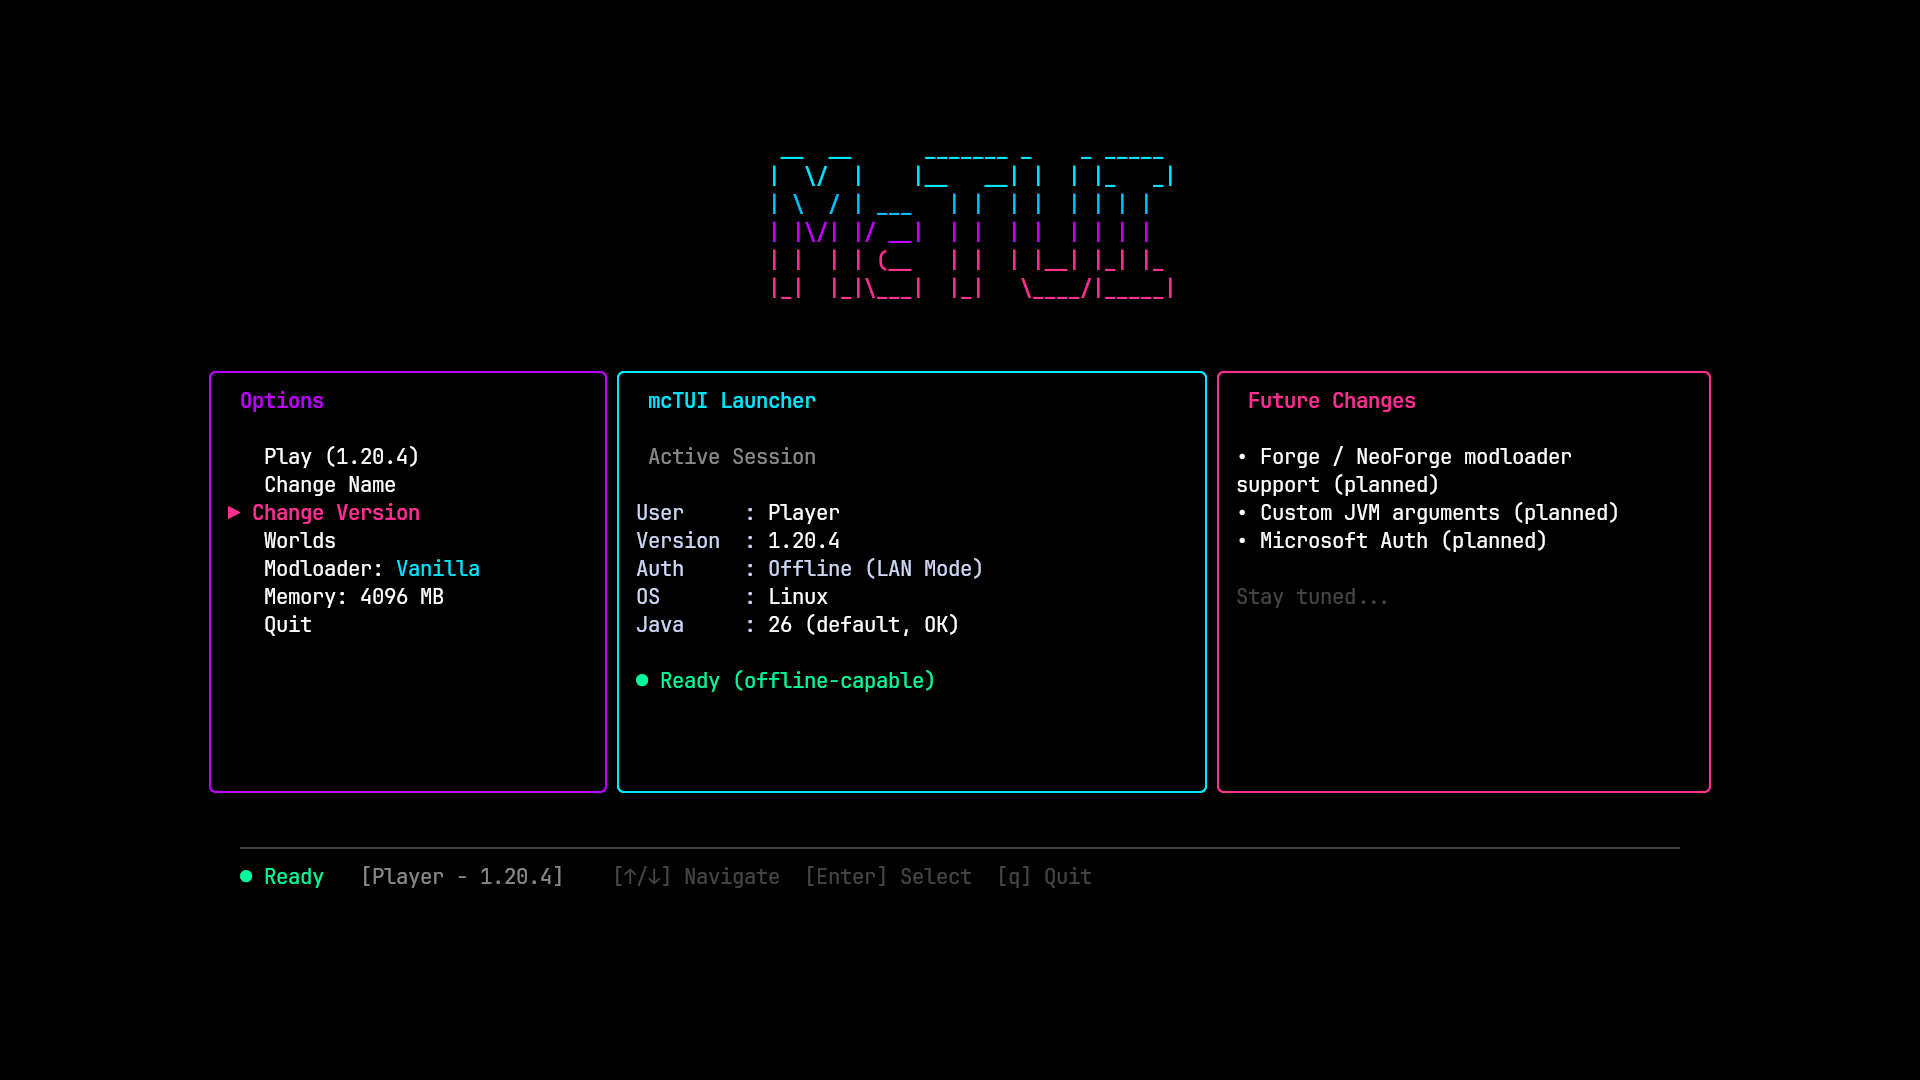
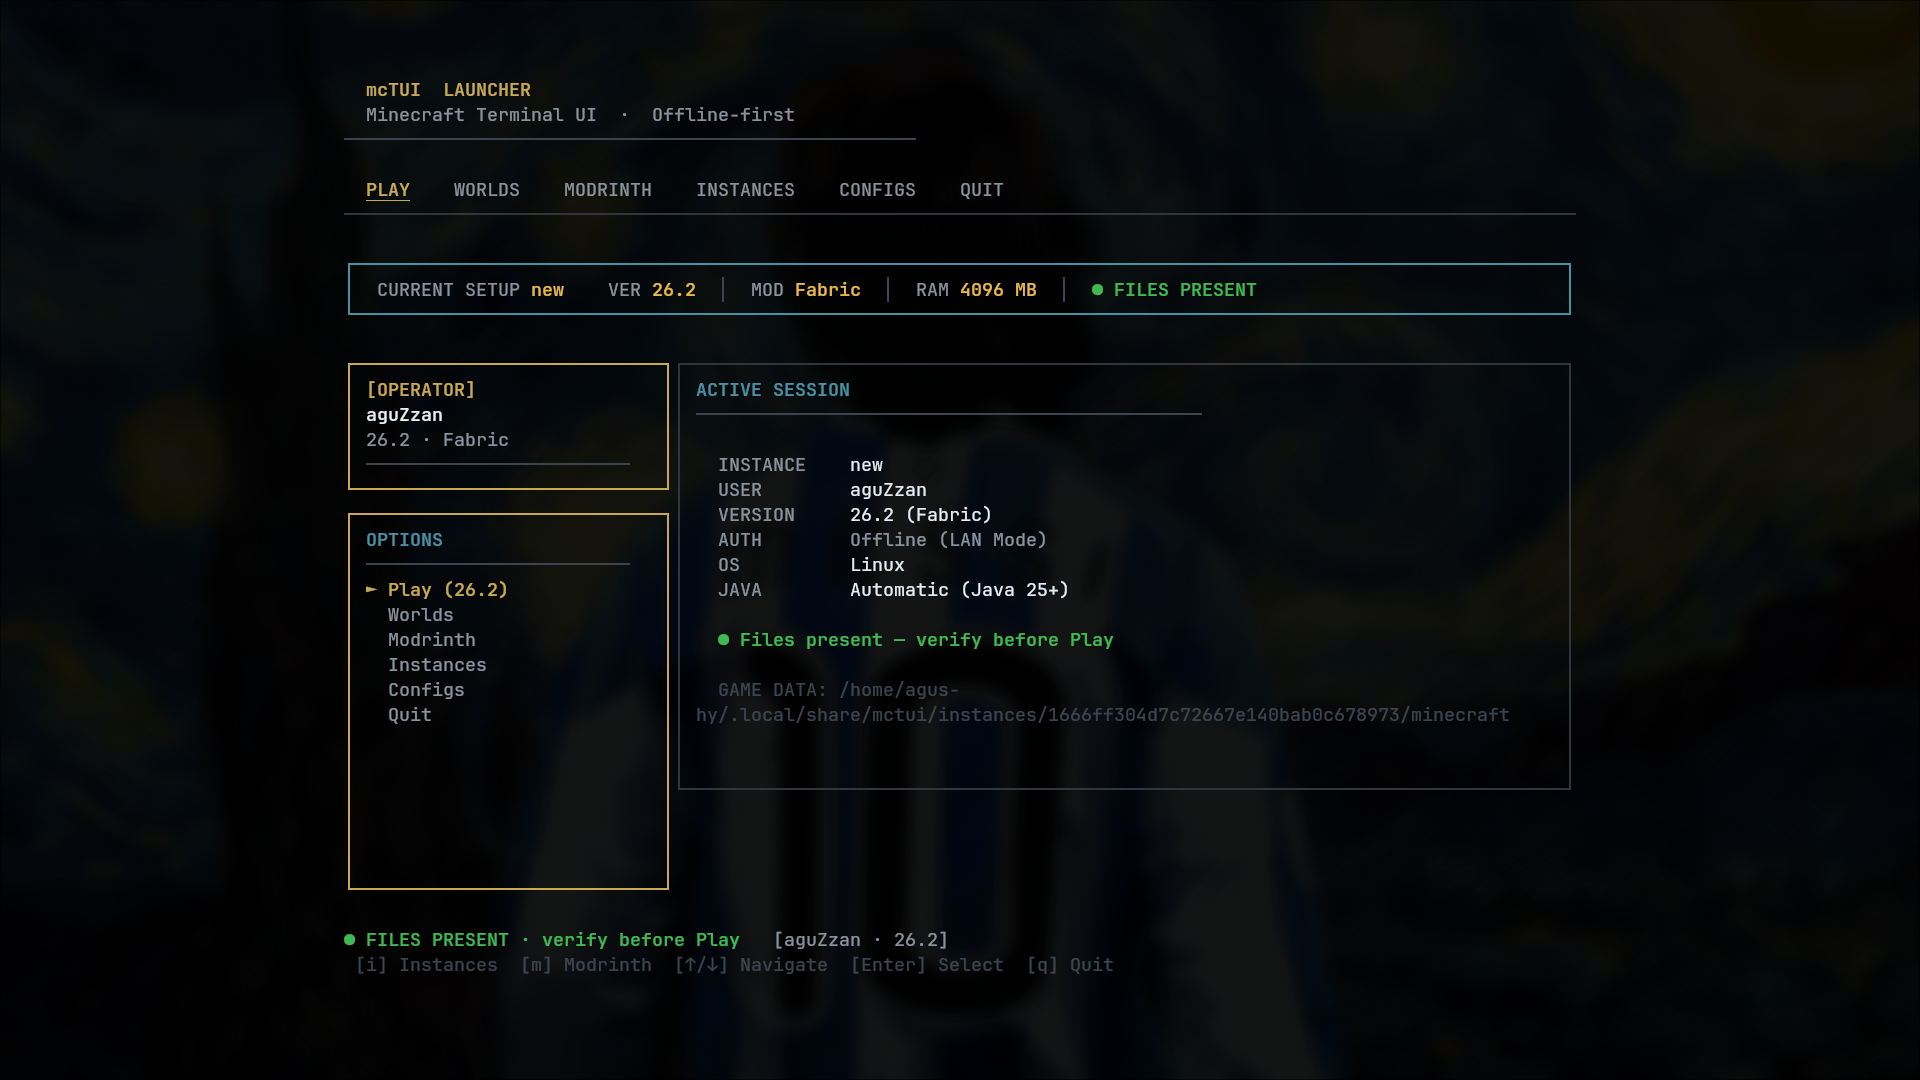
docs: clarify mandatory official Minecraft requirement and update TUI screenshot

diff --git a/README.md b/README.md
@@ -4,6 +4,10 @@
 
 An extremely lightweight, fast, and pure terminal (TUI) Minecraft (Java Edition) launcher. Written in Go, designed for minimalist environments and users who prefer the console.
 
+> ⚠ **MANDATORY PREREQUISITE / REQUISITO OBLIGATORIO:**  
+> **mcTUI ONLY works if you have purchased and downloaded Minecraft: Java Edition on your system.**  
+> mcTUI is strictly a terminal frontend and local management utility that operates on top of an existing, official `.minecraft` installation. It **does not** provide, distribute, or pirate the game, nor does it bypass Mojang or Microsoft DRM/authentication. **Without an official, legitimately purchased copy of Minecraft already downloaded and installed on your computer, mcTUI will NOT function.**
+
 ---
 
 ## Quick Install (Linux/macOS)
@@ -116,7 +120,7 @@ an indeterminate bar. Press `Esc` to cancel preparation.
 * **Cross-Platform:** Native path resolution and execution for Linux, macOS, and Windows.
 * **Secure LAN Multiplayer:** Generates dynamic v4 UUIDs in each session to avoid "duplicate name" conflicts on local servers.
 * **XDG Persistence:** Saves your configuration (username, modloader state, and last played version) following Linux and Windows OS standards.
-* **Legitimacy First:** Verifies existing official Minecraft installations for proprietary binaries (`client.jar`) before taking action, acting as a local utility rather than a direct distributor.
+* **Legitimacy First:** Operates exclusively on officially purchased and downloaded Minecraft installations. Verifies existing official installations for proprietary binaries (`client.jar`) and assets before taking action, acting strictly as a local utility rather than a direct distributor.
 * **Smart Java Detection:** Automatically detects the Java version required
   by each Minecraft version and locates a compatible JRE on your system
   (PATH, common install directories, or IDE-managed JDKs), even if it's not
@@ -126,11 +130,11 @@ an indeterminate bar. Press `Esc` to cancel preparation.
 
 ## Requirements
 
+* **Official Minecraft Installation (Mandatory):** An official, legitimately purchased copy of Minecraft: Java Edition downloaded on your system (`~/.minecraft` on Linux/macOS, `%APPDATA%\.minecraft` on Windows) via the official Mojang launcher. mcTUI relies on pre-existing game assets, libraries, and binaries from your official installation and **does not function without a valid, purchased, and downloaded Minecraft installation**.
 * **Operating System:** Linux (Tested on Arch Linux), macOS, or Windows.
 * **Java Runtime Environment:**
-* `jre17-openjdk` (For Minecraft 1.17 to 1.20.4)
-* `jre21-openjdk` (For Minecraft 1.20.5+)
-
+  * `jre17-openjdk` (For Minecraft 1.17 to 1.20.4)
+  * `jre21-openjdk` (For Minecraft 1.20.5+)
 
 
 ---
@@ -139,7 +143,7 @@ an indeterminate bar. Press `Esc` to cancel preparation.
 
 For Windows users who do not wish to compile from source, pre-built binaries are provided.
 
-1. Download the latest `mctui-windows-amd64.exe` from the [Releases](https://www.google.com/search?q=https://github.com/agmonetti/mcTUI/releases) page.
+1. Download the latest `mctui-windows-amd64.exe` from the [Releases](https://github.com/agmonetti/mcTUI/releases) page.
 2. Ensure you have the correct Java version installed (e.g., Eclipse Temurin). **Crucial:** You must check the option to add Java to your system's `PATH` variable during installation.
 3. Open a **PowerShell** window in the directory where you downloaded the executable.
 4. Run the launcher using the following command:
@@ -211,12 +215,14 @@ mctui
 > **Note:** Use `↑/↓` arrows to navigate, `Enter` to select/toggle, and `Esc/q` to quit or go back.
 > **Note:** Usernames must be 1-16 characters, using only letters, numbers, and underscores — this matches Minecraft's own requirements.
 
-## Disclaimer
+## Disclaimer & Legitimacy Policy
+
+**Strict Requirement:** mcTUI **ONLY** works if you have purchased and downloaded an official copy of Minecraft: Java Edition on your machine.
 
 This project is strictly an educational tool demonstrating concurrency in Go, REST API consumption, TUI design, and OS subprocess management.
 
-**mcTUI is designed to operate as a local utility over existing, officially acquired Minecraft installations.** It does not act as a primary distributor for proprietary Mojang binaries (such as `client.jar`).
+**mcTUI is designed to operate solely as a local utility over existing, officially acquired, and downloaded Minecraft installations.** It does not act as a distributor for proprietary Mojang binaries (such as `client.jar`) and does not facilitate any unauthorized access.
 
-The networking capabilities implemented rely entirely on the official, documented Minecraft protocol for Local Area Networks (LAN) and development environments. It connects exclusively to local servers explicitly configured with `online-mode=false`. **This project does not circumvent DRM, nor does it encourage or facilitate software piracy.** To play on standard, authenticated public servers, you must own a legitimate copy of the game via [minecraft.net](https://www.minecraft.net/).
+The networking capabilities implemented rely entirely on the official, documented Minecraft protocol for Local Area Networks (LAN) and development environments. It connects exclusively to local servers explicitly configured with `online-mode=false`. **This project does not circumvent DRM, nor does it encourage or facilitate software piracy.** To play Minecraft, you must own a legitimate copy of the game purchased via [minecraft.net](https://www.minecraft.net/).
 
-*Not affiliated with Mojang AB or Microsoft.*
+*Not affiliated with, endorsed by, or associated with Mojang AB, Microsoft, or any of their affiliates.*

diff --git a/PHASE_5_IMPLEMENTATION_PLAN.md b/PHASE_5_IMPLEMENTATION_PLAN.md
@@ -5,6 +5,8 @@
 > Antecedente: [RESET_CONFIGS.md](RESET_CONFIGS.md), sección «Fase 5: gestor de mods».
 > Objetivo solicitado: integración completa en mcTUI, tomando Prism Launcher como referencia funcional.
 > Este documento conserva la investigación, la propuesta técnica, las tareas y las decisiones abiertas. Una propuesta aquí no equivale a una funcionalidad implementada ni a una decisión de producto aprobada.
+> **Requisito mandatorio:** mcTUI solo funciona si el usuario posee Minecraft: Java Edition comprado y descargado oficialmente en su sistema. mcTUI no distribuye el juego de forma independiente ni evade licencias.
+
 
 ## 1. Objetivo y definición de alcance
 

diff --git a/RESET_CONFIGS.md b/RESET_CONFIGS.md
@@ -8,6 +8,8 @@ El objetivo es ofrecer una limpieza segura desde la TUI, sin necesidad de abrir 
 
 La operación debe ser conservadora: no debe borrar mundos guardados, versiones descargadas, librerías, assets ni shaders.
 
+> **Requisito obligatorio:** mcTUI y la funcionalidad `Resets Configs` operan exclusivamente sobre una instalación legítima de Minecraft: Java Edition comprada y descargada previamente en el equipo a través del launcher oficial. No funcionan ni tienen soporte para copias no autorizadas o carpetas sin una instalación oficial preexistente.
+
 ---
 
 ## Problema que resuelve

diff --git a/I18N_MIGRATION_PLAN.md b/I18N_MIGRATION_PLAN.md
@@ -4,6 +4,8 @@
 > **Fecha:** 2026-09-26  
 > **Idiomas iniciales:** Inglés (`en`, idioma base/fallback) y Español (`es`).  
 > **Enfoque técnico:** Estándar Go (`go:embed` + JSON), cero dependencias externas, fallback determinista y persistencia en configuración global.
+> **Requisito mandatorio:** mcTUI solo funciona si el usuario cuenta con una copia de Minecraft: Java Edition comprada y descargada oficialmente en su equipo (`~/.minecraft` o `%APPDATA%\.minecraft`). No brinda soporte a versiones no autorizadas.
+
 
 ---
 
